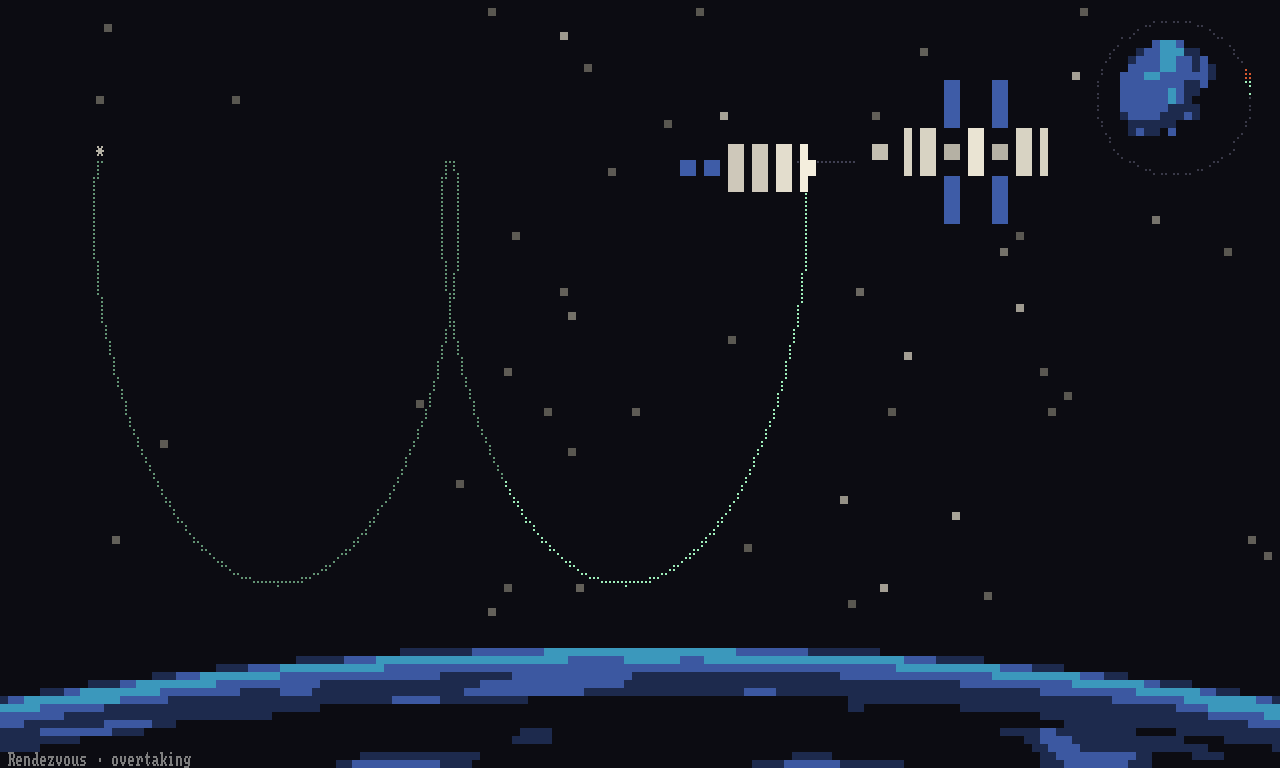
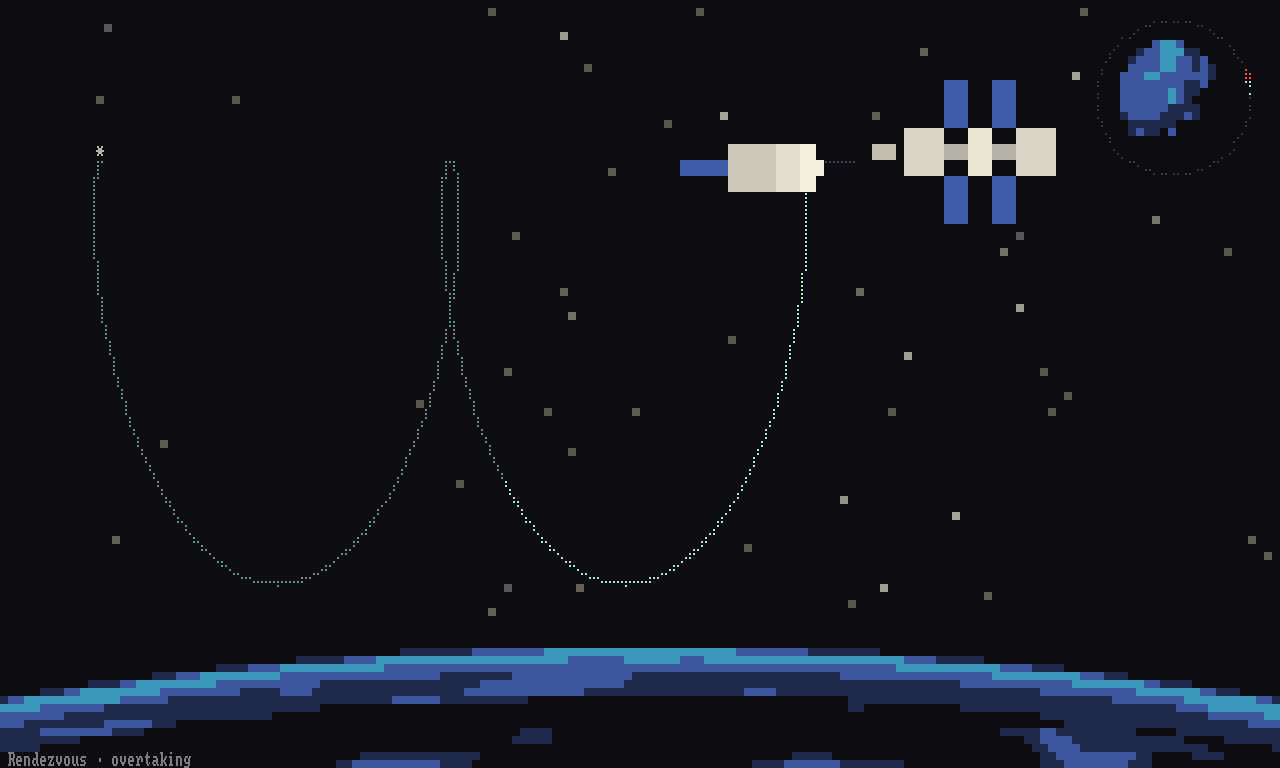
fix(scenes): stable eclipse buffers, solid 3x sprites, meteor skyline [IMP-15]

Changed region(s): [[0.6875, 0.0938, 0.8438, 0.2812], [0.5625, 0.1875, 0.6562, 0.25]]

diff --git a/crates/sciart-scenes-earth/src/orbital_rendezvous.rs b/crates/sciart-scenes-earth/src/orbital_rendezvous.rs
@@ -513,9 +513,6 @@ impl OrbitalRendezvous {
         let sprites = &mut self.sprites;
         // Rows of cell row `cy + dy`'s 2× block, centred on the cell's middle.
         let mut block = |x: i32, cy: i32, dy: i32, cols: &[i32], thin: bool, ink: Ink| {
-            // At 1× a table cell is one pixel column: the half-cell glyphs fill it.
-            let one = [0];
-            let cols = if k == 1 { &one[..] } else { cols };
             let mid = 2 * cy + 1 + 2 * k * dy;
             let rows = if thin {
                 mid - 1..mid + 1
@@ -523,8 +520,20 @@ impl OrbitalRendezvous {
                 mid - k..mid + k
             };
             for &c in cols {
-                for y in rows.clone() {
-                    sprites.set(x + c, y, ink);
+                // A table cell is `k` pixel columns wide: the left half is the first
+                // ceil(k/2), the right half the last floor(k/2) (they overlap on odd k,
+                // so a full cell has no empty column at any scale).
+                let (lo, hi) = if k == 1 {
+                    (0, 1)
+                } else if c == 0 {
+                    (0, (k + 1) / 2)
+                } else {
+                    (k / 2, k)
+                };
+                for xoff in lo..hi {
+                    for y in rows.clone() {
+                        sprites.set(x + xoff, y, ink);
+                    }
                 }
             }
         };
@@ -854,6 +863,29 @@ mod tests {
                     g.dots.is_lit(x.round() as i32, y.round() as i32),
                     "{w}x{h}: gap at {x},{y}"
                 );
+            }
+        }
+    }
+
+    #[test]
+    fn rdv_a8_three_x_sprites_fill_every_pixel_column() {
+        // At 3× each table cell is three pixel columns: a half-cell glyph must fill its
+        // half, not just one column (the striped-sprite regression the 160×48 review found).
+        let size = Size::new(160, 48);
+        let mut ctx = Ctx::new(3, size);
+        let mut g = OrbitalRendezvous::default();
+        g.resize(size, &mut ctx);
+        g.prepare();
+        assert_eq!(g.sprite, 3);
+        let (sx, sy) = g.to_cells(0.0, 0.0);
+        let (sx, sy) = (sx.floor() as i32, sy.floor() as i32);
+        let mid = 2 * sy + 1;
+        for dx in [-2, 0, 2] {
+            let x0 = sx + g.sprite * dx;
+            for col in 0..g.sprite {
+                let lit = (mid - g.sprite..mid + g.sprite)
+                    .any(|y| g.sprites.get(x0 + col, y).is_some_and(|ink| ink.level != 0));
+                assert!(lit, "160x48: empty column {col} of the module at {dx}");
             }
         }
     }

diff --git a/crates/sciart-scenes-earth/src/total_solar_eclipse.rs b/crates/sciart-scenes-earth/src/total_solar_eclipse.rs
@@ -98,6 +98,10 @@ const SPIKE_CORE: Ink = Ink::new(Role::Star, 255);
 const CORE_SHARE: f64 = 0.4;
 /// Prominences: count range, heights (solar radii).
 const PROMS: (usize, usize) = (3, 6);
+/// Stable capacities for the per-resize corona/prominence buffers (TEST-R6): they are
+/// sized for the largest reviewed terminal, so a later resize cannot reallocate them.
+const SEG_CAP: usize = 8_192;
+const PROM_DOT_CAP: usize = 512;
 const PROM_H: (f64, f64) = (0.07, 0.16);
 /// Beads are drawn this far outside the lunar limb (in half-block pixels, two dots).
 const BEAD_LIFT: f64 = 0.8;
@@ -297,8 +301,9 @@ impl Corona {
                     };
                     let boost = if stalk { STALK_GAIN } else { 1.0 };
                     // Fan lines stop at varied radii; the stalk lines carry the helmet
-                    // out to R_OUT. A hash, not the RNG: the skyline and the planets must
-                    // keep the values they had before IMP-15.
+                    // out to R_OUT. The reach is a hash, not the RNG, so resizes keep it;
+                    // removing the old loops did shift the skyline/prominence stream, and
+                    // the M23 review re-recorded those frames.
                     let reach = if stalk {
                         1.0
                     } else {
@@ -735,6 +740,12 @@ impl Generator for Eclipse {
         // The M15 geometry, in dots (two per half-block pixel each way).
         self.radius = (0.1 * dw).min(0.14 * dh).max(1.0);
         self.centre = (0.5 * dw, 0.44 * dh);
+        // Keep these capacities independent of the seeded counts and reaches: the live
+        // bytes must return to the same value after every resize (TEST-R6).
+        self.segs.clear();
+        self.segs.reserve_exact(SEG_CAP);
+        self.prom_dots.clear();
+        self.prom_dots.reserve_exact(PROM_DOT_CAP);
         let deg = (0.5 * dh / 30.0).max(0.1);
         let hills = Skyline::new(&mut ctx.rng, ds.width().into(), deg, HILLS);
         let horizon = 0.97 * dh;

diff --git a/crates/sciart/tests/art_metrics.rs b/crates/sciart/tests/art_metrics.rs
@@ -78,7 +78,7 @@ const LIMITS: &[Limits] = &[
     ("light_echo", [0.980, 0.980], [0.065, 0.051], [0.0054, 0.0046], [1.4, 1.4]),
     ("magnetosphere", [0.978, 0.978], [0.057, 0.057], [0.0051, 0.0050], [1.4, 1.4]),
     ("mars_rover", [0.000, 0.000], [1.000, 1.000], [0.0933, 0.0935], [75.4, 77.2]),
-    ("meteor_shower", [0.980, 0.980], [0.054, 0.052], [0.0035, 0.0034], [1.4, 1.4]),
+    ("meteor_shower", [0.980, 0.980], [0.052, 0.050], [0.0035, 0.0034], [1.4, 1.4]),
     ("mitosis", [0.980, 0.980], [0.032, 0.043], [0.0035, 0.0037], [1.4, 1.5]),
     ("molecular_dynamics", [0.980, 0.980], [0.055, 0.043], [0.0044, 0.0041], [1.3, 1.3]),
     ("molecular_motors", [0.980, 0.980], [0.043, 0.037], [0.0037, 0.0035], [1.4, 1.4]),
@@ -87,7 +87,7 @@ const LIMITS: &[Limits] = &[
     ("moon_phases", [0.980, 0.951], [0.043, 0.108], [0.0034, 0.0046], [1.3, 1.8]),
     ("motility_clustering", [0.980, 0.980], [0.086, 0.229], [0.0067, 0.0151], [1.4, 1.4]),
     ("noctilucent_clouds", [0.917, 0.922], [0.363, 0.373], [0.0229, 0.0235], [3.7, 4.8]),
-    ("orbital_rendezvous", [0.884, 0.882], [0.119, 0.121], [0.0110, 0.0112], [5.6, 5.7]),
+    ("orbital_rendezvous", [0.880, 0.878], [0.123, 0.126], [0.0112, 0.0114], [6.0, 6.0]),
     ("particle_accelerator", [0.980, 0.980], [0.027, 0.039], [0.0033, 0.0044], [1.3, 1.3]),
     ("physarum", [0.980, 0.980], [0.056, 0.056], [0.0048, 0.0048], [1.6, 1.5]),
     ("planetary_nebula", [0.980, 0.980], [0.035, 0.045], [0.0036, 0.0040], [1.5, 1.4]),

diff --git a/crates/sciart-scenes-earth/src/meteor_shower.rs b/crates/sciart-scenes-earth/src/meteor_shower.rs
@@ -646,6 +646,11 @@ impl MeteorShower {
             }
             let bx = band_x + tilt * (cy - 0.5 * h as f64);
             for x in 0..dw {
+                // Keep the dust band off the land, like the stars below (skyline top).
+                let px = (((f64::from(x) + 0.5) / 2.0) as usize).min(w.saturating_sub(1));
+                if cy >= f64::from(self.land[px]) {
+                    continue;
+                }
                 let d = (f64::from(x) + 0.5) - 2.0 * bx;
                 let profile = (-(d / (2.0 * band_w)).powi(2)).exp();
                 if profile < 0.03 {
@@ -709,6 +714,12 @@ impl MeteorShower {
             if !(0.0..f64::from(dsize.width())).contains(&x)
                 || !(0.0..f64::from(dsize.height())).contains(&y)
             {
+                continue;
+            }
+            // Same land test as the main star loop: no band stars on the ridge.
+            let px = ((x / 2.0) as usize).min(w.saturating_sub(1));
+            let top = self.land.get(px).copied().unwrap_or(0);
+            if y / 2.0 >= f64::from(top) - 0.5 {
                 continue;
             }
             let level = if rng.random_bool(0.2) { 80 } else { 45 };

diff --git a/crates/sciart-scenes-cosmos/src/io_volcanoes.rs b/crates/sciart-scenes-cosmos/src/io_volcanoes.rs
@@ -211,7 +211,7 @@ pub(crate) fn plume_scale(t: f64, phase: f64) -> f64 {
     s * s
 }
 
-/// The eruption pulse in `[0, ~2.9]`, mean 1 over a cycle: a sharp burst, a long decay
+/// The eruption pulse in `[0.43, 3.29]`, mean 1 over a cycle: a sharp burst, a long decay
 /// while the canopy drifts out and falls, then a quiet rest. `phase` is the vent's
 /// offset in radians (as before), converted to a share of the cycle.
 pub(crate) fn eruption(t: f64, phase: f64) -> f64 {
@@ -948,7 +948,7 @@ mod tests {
     }
 
     #[test]
-    fn io_a8_the_eruption_pulses_around_a_mean_launch_rate() {
+    fn io_a14_the_eruption_pulses_around_a_mean_launch_rate() {
         // The eruption envelope is normalised to mean 1, so the steady-state population
         // (IO-A4) is unchanged, but it swings from a burst to a quiet rest > 3× lower.
         let n = 400;
